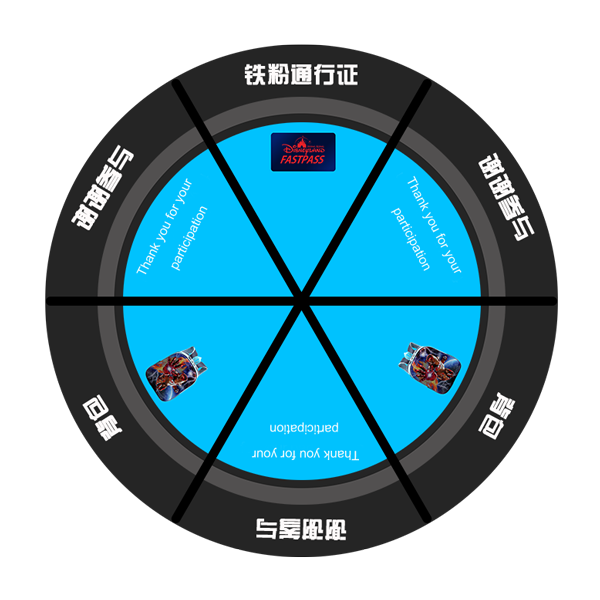
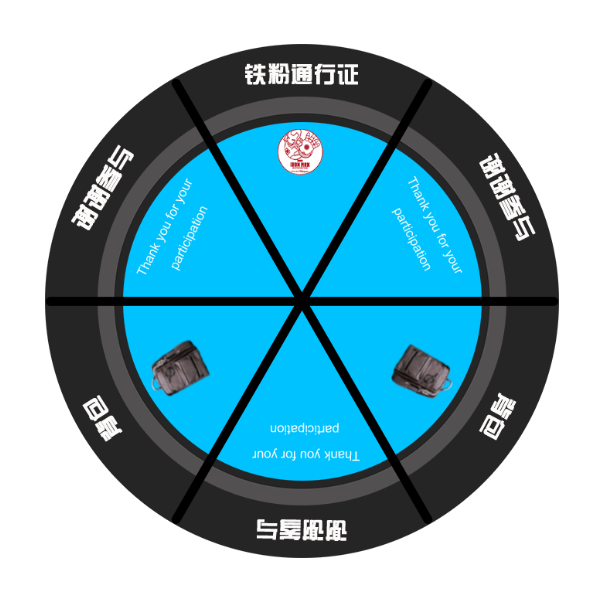
修改转盘图和减少转盘转动时间

diff --git a/src/components/page6.vue b/src/components/page6.vue
@@ -136,14 +136,14 @@
                 thisVm.$emit("lottery");
                 var _el = $(".turn-plate-c");
                 _el.unbind();
-                Tween(0, 5760, 4000, "Linear", function (value, isEnding) {
+                Tween(0, 2440, 2000, "Quart.easeIn", function (value, isEnding) {
                     _el.css({
                         "transform": "rotate(" + value + "deg)"
                     });
 
                     if (isEnding) {
                         console.log("thisVm.resultRegs", thisVm.resultRegs);
-                        Tween(0, 3600 + thisVm.resultRegs, 3000, "Quart.easeOut", function (value, isEnding) {
+                        Tween(0, 360 + thisVm.resultRegs, 2000, "Quart.easeOut", function (value, isEnding) {
                             _el.css({
                                 "transform": "rotate(" + value + "deg)"
                             });

diff --git a/src/views/index.vue b/src/views/index.vue
@@ -67,7 +67,7 @@
                 direction: 'vertical',
                 noSwiping: true,
                 loop: false,
-                initialSlide: 0,
+                initialSlide: 5,
                 speed: 300,
                 spaceBetween: 0,
                 // 回调函数
@@ -146,6 +146,16 @@
 
     .display-none {
         display: none;
+    }
+
+    .arrow-up {
+        @w: 60px;
+        position: absolute;
+        bottom: 60px;
+        left: 50%;
+
+        width: @w;
+        margin: 0 -@w/2;
     }
 
 </style>
